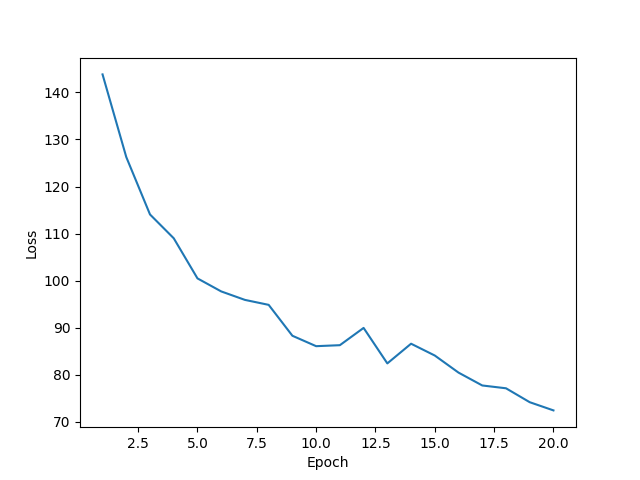
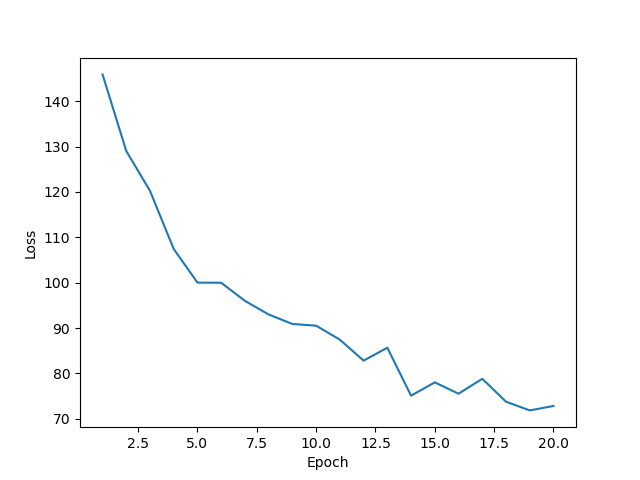
further fixing of epoch loss

diff --git a/Source/classifier.py b/Source/classifier.py
@@ -305,7 +305,7 @@ class Classifier:
 
             
             print('Epoch [{}/{}], Step [{}/{}], Loss: {:.4f}, Accuracy: {:.2f}%'
-                    .format(epoch + 1, number_of_epochs, step + 1, number_of_batches, loss.item(),
+                    .format(epoch + 1, number_of_epochs, step + 1, number_of_batches, epoch_loss,
                             (correct / self.batch_size) * 100))
             self.reset_batches()
             self.load_images()

diff --git a/Source/variables.py b/Source/variables.py
@@ -45,7 +45,7 @@ convpool_cfg =  {
         "mini_batch_size": 32, #Amount of images per batch
         "test_batch_size": 150, #Images per category to test on
         "step_size": 32, #Amount of batches per Epoch
-        "epochs": 20,
+        "epochs": 200,
         # trial.suggest_categorical('dropout', [True, False]),
         "dropout": True,
         "dropout_rate": 0.4,
